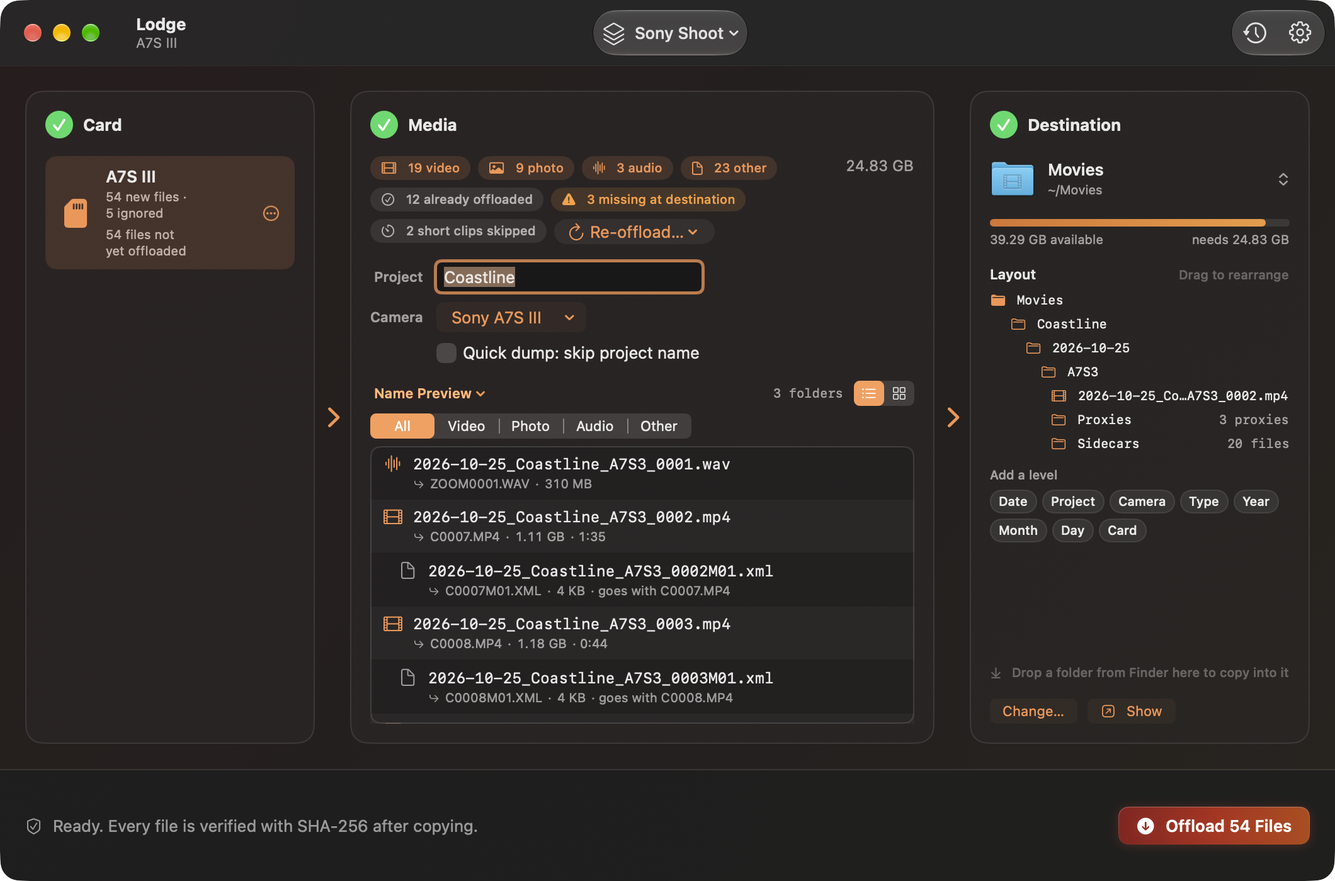
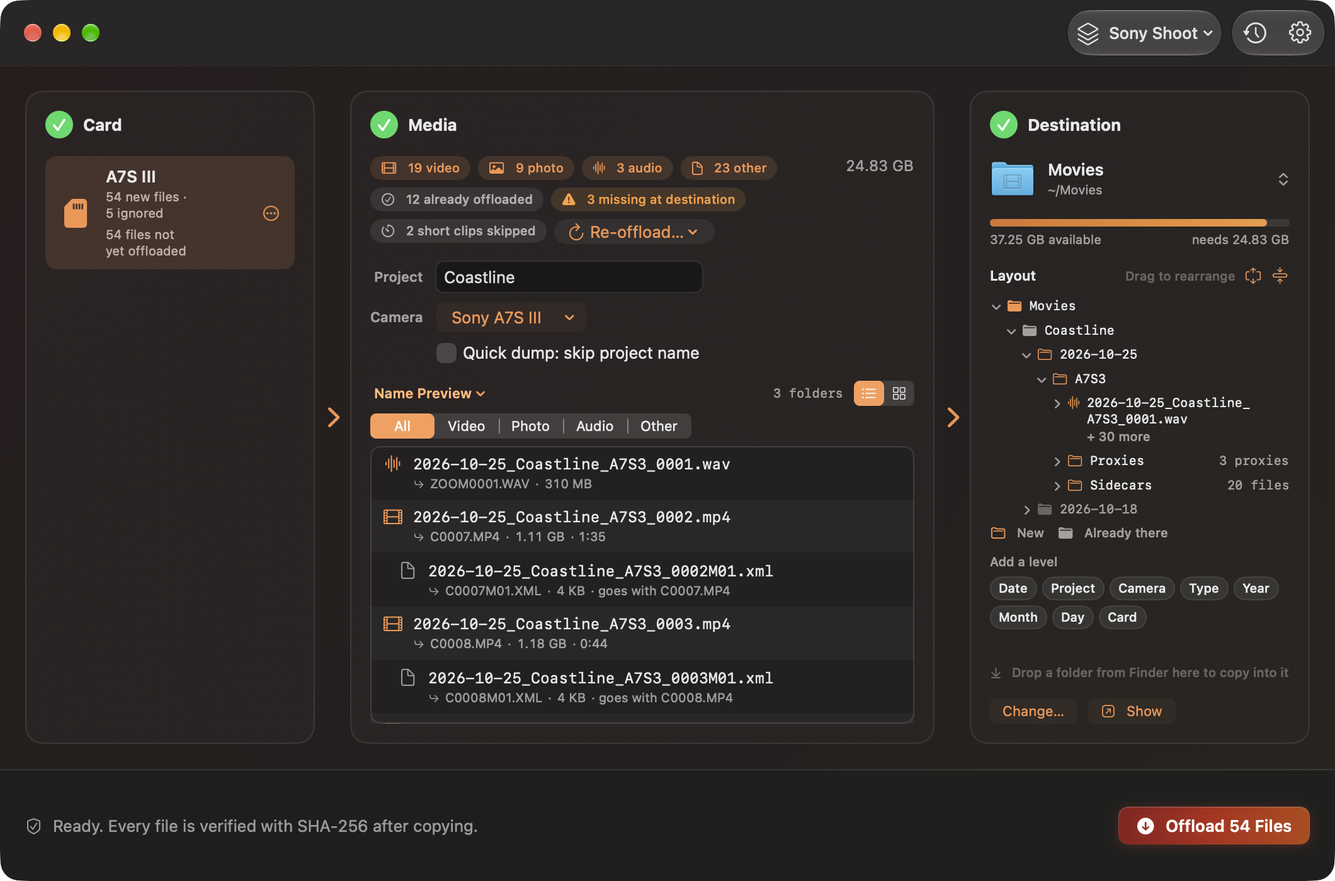
Document sorting, updates, and support for the next release
Copy the retaken screenshots into the site and describe the new folder layout, update checks, and support card as coming after 1.0.0.

diff --git a/docs/index.html b/docs/index.html
@@ -382,8 +382,8 @@
     </div>
 
     <div class="wrap">
-      <img class="shot" src="assets/screenshots/ready-dark.png" width="1440" alt="The Lodge window ready to offload a card: Card, Media, and Destination, with Offload 49 Files along the bottom.">
-      <p class="caption">Default theme, Dark mode. The card line shows how many files are new, and how many were ignored.</p>
+      <img class="shot" src="assets/screenshots/ready-dark.png" width="1440" alt="Lodge in Dark mode, ready to offload. The preset control at the top right reads Sony Shoot, and the window title is hidden. Offload 54 Files sits along the bottom.">
+      <p class="caption">Default theme, Dark mode. The card line shows how many files are new, and how many were ignored. <span class="soon">Coming in the next update</span> This picture’s preset menu is at the top right, and the title is hidden. Lodge 1.0.0 keeps that menu in the center of the toolbar, and the title reads Lodge.</p>
     </div>
 
     <section id="features">
@@ -413,7 +413,7 @@
           </article>
           <article class="card">
             <h3>Short clips, presets, quick dump</h3>
-            <p><strong>Skip videos shorter than</strong> runs from <strong>Off</strong> to <strong>30 s</strong>, and starts at <strong>5 s</strong>. A preset saves a whole setup and shows <strong>Edited</strong> when you change it. <span class="soon">Coming in the next update</span> The preset menu sits at the top right of the window, and the title is hidden. In Lodge 1.0.0 that menu is in the center of the toolbar. Quick dump leaves <code>{project}</code> out so you can just empty the card.</p>
+            <p><strong>Skip videos shorter than</strong> runs from <strong>Off</strong> to <strong>30 s</strong>, and starts at <strong>5 s</strong>. A preset saves a whole setup and shows <strong>Edited</strong> when you change it. <span class="soon">Coming in the next update</span> The preset menu sits at the top right of the window, and the title is hidden. In Lodge 1.0.0 that menu is in the center of the toolbar. Quick dump leaves <code>{project}</code> out so you can just empty the card. The checkbox then reads <strong>Quick dump</strong>, with an ⓘ that says it skips the project name and dumps the footage into a dated folder. In Lodge 1.0.0 the checkbox reads <strong>Quick dump: skip project name</strong>.</p>
           </article>
           <article class="card">
             <h3>Drop a folder, or a level</h3>
@@ -421,7 +421,11 @@
           </article>
           <article class="card">
             <h3>Proxies, sidecars, ignore list</h3>
-            <p>A <code>.lrv</code> file is a proxy, and Lodge does not copy it as video. Settings &gt; Files sends <code>.lrv</code> and <code>.lrf</code> to <strong>Proxies/</strong>, and <code>.thm</code>, <code>.xml</code>, and <code>.srt</code> to <strong>Sidecars/</strong>. They keep the clip’s new name. The ignore list is never copied, and Lodge also skips system junk such as <code>recycler</code> and <code>recycled</code>.</p>
+            <p>A <code>.lrv</code> file is a proxy, and Lodge does not copy it as video. Settings &gt; Files sends <code>.lrv</code> and <code>.lrf</code> to <strong>Proxies/</strong>, and <code>.thm</code>, <code>.xml</code>, and <code>.srt</code> to <strong>Sidecars/</strong>. They keep the clip’s new name. The ignore list is never copied, and Lodge also skips system junk such as <code>recycler</code> and <code>recycled</code>. In Lodge 1.0.0 the other files land in the folder the template makes, and audio recorded with a clip stays next to that clip. <span class="soon">Coming in the next update</span> Each extension gets its own folder, such as <strong>MP4/</strong>, <strong>ARW/</strong>, and <strong>WAV/</strong>. <code>.JPG</code> and <code>.JPEG</code> share <strong>JPG/</strong>. Proxies and sidecars stay separate.</p>
+          </article>
+          <article class="card">
+            <h3>Updates</h3>
+            <p>Lodge 1.0.0 does not check for a new version. Download the next one from Gumroad. <span class="soon">Coming in the next update</span> <strong>Lodge &gt; Check for Updates…</strong> looks now. In Settings &gt; General, under <strong>Updates</strong>, <strong>Automatically check for updates</strong> is on, and <strong>Automatically download and install updates</strong> is off. Lodge checks once a day.</p>
           </article>
           <article class="card">
             <h3>Motion, quietly</h3>
@@ -453,7 +457,7 @@
 
     <section id="themes">
       <div class="wrap pair themes">
-        <img src="assets/screenshots/ready-ember-dark.png" width="1440" alt="Lodge in the Ember theme, Dark mode, ready to offload.">
+        <img src="assets/screenshots/ready-ember-dark.png" width="1440" alt="Lodge in the Ember theme, Dark mode, ready to offload. The preset control at the top right, and the hidden title, are the next update.">
         <div>
           <h2>Default is neutral black</h2>
           <p class="section-intro">Lodge opens in Dark mode. Default is a neutral black and white window, with no colour wash. Buttons, switches, sliders, selection, progress, and badges use the system accent: system blue, unless you picked another accent in System Settings.</p>
@@ -492,7 +496,7 @@
           </article>
         </div>
         <p class="note">The first time Lodge reads a card, allow access to files on a removable volume. Building from source is in the <a href="https://github.com/bashcrandicoot/Lodge/blob/main/CONTRIBUTING.md">contribution guide</a>. The <a href="https://github.com/bashcrandicoot/Lodge/blob/main/docs/user-guide.md">user guide</a>, <a href="https://github.com/bashcrandicoot/Lodge/blob/main/docs/faq.md">FAQ</a>, and <a href="https://github.com/bashcrandicoot/Lodge/blob/main/docs/changelog.md">changelog</a> live in the repository.</p>
-        <p class="note"><span class="soon">Coming in the next update</span> Help adds <strong>Contact Support…</strong> and <strong>Support Lodge…</strong>. After a few offloads, a quiet tip appears once. You can dismiss it.</p>
+        <p class="note"><span class="soon">Coming in the next update</span> <strong>Help &gt; Contact Support…</strong> writes to bashframes@gmail.com, and <strong>Support Lodge…</strong> opens the same page as the download. <strong>About Lodge</strong> credits BashFrames. After five verified offloads, and at least three days after you first open that version, a quiet card asks once when Lodge is idle. <strong>Maybe Later</strong> asks one more time. <strong>Don’t Ask Again</strong> stops it.</p>
       </div>
     </section>
   </main>

diff --git a/docs/user-guide.md b/docs/user-guide.md
@@ -4,9 +4,11 @@ Home base for your media. Lodge is a universal app for Apple silicon and Intel M
 
 The main window reads left to right: **Card**, **Media**, **Destination**, with the offload bar along the bottom. Closing the window quits Lodge.
 
-**Coming in the next update.** The preset menu sits at the top right of the window, just left of **Recent Offloads** and **Settings**, and the window title is hidden. In Lodge 1.0.0 the preset menu is in the center of the toolbar, and the title reads Lodge. The Help menu also gains **Contact Support…** and **Support Lodge…**. After a few offloads, Lodge shows a quiet tip once. You can dismiss it.
+**Coming in the next update.** The preset menu sits at the top right of the window, just left of **Recent Offloads** and **Settings**, and the window title is hidden. In Lodge 1.0.0 the preset menu is in the center of the toolbar, and the title reads Lodge. Updates, a folder for each file extension, the shorter Quick dump label, and the support items are in their own sections below.
 
-![Lodge ready to offload, Default theme, Dark mode](assets/screenshots/ready-dark.png)
+![Lodge in Dark mode, ready to offload. The preset control at the top right reads Sony Shoot, and the window title is hidden. Offload 54 Files sits along the bottom.](assets/screenshots/ready-dark.png)
+
+The pictures in this guide are the next update’s window. The preset control is at the top right and the title is hidden. The copying, grid, and finished pictures include a wagon scene on the offload bar. Lodge 1.0.0 keeps the preset menu in the center of the toolbar, the title reads Lodge, and the offload bar has no wagon. The pictures still use the 1.0.0 Quick dump label, **Quick dump: skip project name**, and they still put files in the template’s folders, with **Proxies** and **Sidecars**, rather than a folder per extension.
 
 ## Cards
 
@@ -30,11 +32,11 @@ The size of the new files counts up when the card is scanned.
 
 **Project** and **Camera** appear when the template uses them. Only those fields are required. “Beach Shoot” becomes `BeachShoot`: letters, digits, and hyphens, each word capitalized, at most 60 characters. Up to six recent projects stay in the menu, and **Clear Recent Projects** empties that list. The camera menu remembers which camera you used with this card. **Edit Cameras…** opens Settings > Cameras.
 
-**Quick dump: skip project name** sits under the camera field. See [Quick dump](#quick-dump).
+**Quick dump: skip project name** sits under the camera field. See [Quick dump](#quick-dump). **Coming in the next update.** That checkbox reads **Quick dump**, with an ⓘ beside it.
 
 The list previews the finished name of every file before anything is copied. The filter is **All**, **Video**, **Photo**, **Audio**, and **Other**. Sidecars are shown with their clip. The switch above the list (list or grid) is remembered. **Settings > Appearance > Show thumbnails in the list** adds a small thumbnail to each row.
 
-![Thumbnail grid](assets/screenshots/grid-dark.png)
+![The Media panel as a thumbnail grid while a copy is running. The offload bar shows the file in progress and a wagon scene. The preset control at the top right, and the hidden title, are the next update.](assets/screenshots/grid-dark.png)
 
 In the grid, each tile shows a thumbnail, the new name, the length, the type, and a paperclip count for sidecars that travel with it. The file being copied shows a progress ring. A verified file gets a green tick. Files offloaded earlier are dimmed. A missing copy is marked. A skipped short clip is marked, with **Include Anyway** in its menu.
 
@@ -56,13 +58,13 @@ Each file is written as `<name>.lodge-partial`. Lodge reads that file back and h
 
 While it runs you see the current file, how far through the batch you are, the bytes copied, the time left, a **Verifying** state, and **Cancel**. The list follows the file being copied.
 
-![An offload in progress](assets/screenshots/running-dark.png)
+![Lodge copying files. The offload bar shows the file, how far through the batch the copy is, and Cancel, with a wagon scene along the bar. That scene is in the next update.](assets/screenshots/running-dark.png)
 
 Time left appears after a couple of seconds of copying: **Estimating time…**, **Less than a minute left**, **About 3 min left**, and so on.
 
 When it finishes, the summary reads like **57 copied · 0 skipped · 0 failed**. The copied count counts up. On a clean finish the checkmark draws itself, and Lodge plays the Glass sound if **Play a sound when an offload finishes** is on (it is, by default). Then: **Show in Finder**, **Eject Card**, **Done**, and **Format Card…** when the card is ready.
 
-![A finished offload, with the card ready to format](assets/screenshots/finished-dark.png)
+![A finished offload. The bar reads Offload Complete and offers Show in Finder, Format Card…, Eject Card, and Done, with a wagon scene parked along the bar. The wagon is in the next update.](assets/screenshots/finished-dark.png)
 
 **Eject card after offload** is off by default. It ejects only when every file copied and verified. The same switch ejects the card after a successful format.
 
@@ -174,7 +176,9 @@ The same folder structure is the **Layout** tree in Destination once a card is s
 
 In the Layout tree, a level that quick dump removes is struck through and tagged **Quick dump**.
 
-![Quick dump on, so the project name is left out](assets/screenshots/ready-quickdump-dark.png)
+**Coming in the next update.** The checkbox reads **Quick dump**, with an ⓘ beside it. Hover the ⓘ for a moment, or click it, and a small note says: Skips the project name and dumps all the footage straight into a dated folder. The same sentence is the tooltip. The picture below still shows the 1.0.0 label.
+
+![Quick dump on, so the project name is left out. The checkbox still reads Quick dump: skip project name, which is the Lodge 1.0.0 label. The preset control at the top right, and the hidden title, are the next update.](assets/screenshots/ready-quickdump-dark.png)
 
 ## Short clips
 
@@ -196,7 +200,7 @@ A preset saves the destination, the folder and file templates, the camera, the s
 
 **Save Current Setup as Preset…** saves what the window is using now. Change any of that afterwards and the menu shows **Edited**, and offers **Update “Name”** for the preset in use. **Manage Presets…** opens Settings > Presets. With no preset selected the menu says **No Preset**.
 
-![The preset menu, with Edited showing](assets/screenshots/ready-presets-dark.png)
+![The preset control at the top right reads Sony Shoot. The window title is hidden. This chrome is the next update. Lodge 1.0.0 puts that menu in the center of the toolbar, and the title reads Lodge. The empty-window picture later on is the one whose preset control reads Sony Shoot Edited.](assets/screenshots/ready-presets-dark.png)
 
 In Settings > Presets you can add, rename, duplicate, edit, and remove presets. The one in use is marked **In use**, or **In use · edited** when the window has drifted from it. Editing the preset that is in use, while it still matches, updates the window too.
 
@@ -235,6 +239,7 @@ In Lodge 1.0.0 the header says **Drag to rearrange** while nothing is copying. D
 - When a folder holds more than one file, they start as one line: the first name, with **+ N more** under it. Open that line to see each file. Lodge 1.0.0 shows one example file name on its own line.
 - Drop a level or a token on the left or right side of a folder’s name to put the tokens side by side in that level, such as `{project}_{date}`. Drag a piece of a combined name between folders to give it its own level again, or along the name to reorder it. Right-click a piece to remove it.
 - Hover a combined level for the separator menu: **Underscore**, **Hyphen**, **Space**, or **None**.
+- The tree lists a folder for each extension, such as `MP4/`, `ARW/`, and `WAV/`, in Finder order, then **Proxies** and **Sidecars**. Lodge 1.0.0 puts the files in the folder the template makes. See [Folders for each extension](#folders-for-each-extension).
 
 A combined level is ordinary template text, so a saved template or preset keeps it. A change that would make the template invalid is refused, with a beep. Quick dump levels that are left out stay visible, struck through, so you can see what the template still contains.
 
@@ -246,7 +251,7 @@ Settings > Files decides which extensions are proxies, which are sidecars, and w
 
 **Proxies** (default `lrv` and `lrf`) are low-resolution copies, such as a GoPro `.LRV` or a DJI `.LRF`. They go in a `Proxies` folder inside the shoot folder and take their clip’s new name. They are never treated as the footage, and they are not skipped as short clips on their own. They follow the clip.
 
-**Sidecars** (default `thm`, `xml`, and `srt`) are thumbnails, metadata, and telemetry. They go in a `Sidecars` folder and keep the clip’s new name. Sony’s `C0001M01.XML` keeps the `M01`. A GoPro proxy named `GL010001.LRV` follows the clip `GX010001.MP4`. An audio file recorded next to a clip, such as `C0001.WAV`, stays beside the clip rather than in Sidecars, and shares its new name. Sidecars do not use up a sequence number.
+**Sidecars** (default `thm`, `xml`, and `srt`) are thumbnails, metadata, and telemetry. They go in a `Sidecars` folder and keep the clip’s new name. Sony’s `C0001M01.XML` keeps the `M01`. A GoPro proxy named `GL010001.LRV` follows the clip `GX010001.MP4`. In Lodge 1.0.0, an audio file recorded next to a clip, such as `C0001.WAV`, stays beside the clip rather than in Sidecars, and shares its new name. Sidecars do not use up a sequence number. **Coming in the next update**, that WAV goes in `WAV/` instead. See [Folders for each extension](#folders-for-each-extension).
 
 A proxy or sidecar whose clip is not on the card keeps its own name.
 
@@ -257,6 +262,41 @@ The card line counts these. They do not block **Ready to format**. Formatting st
 **Restore Defaults** puts the three lists back.
 
 Empty files are copied when they are not hidden and not ignored.
+
+## Folders for each extension
+
+**Coming in the next update.** Inside the folder the template makes, every file goes in a folder named for its extension, in capitals.
+
+`.mp4` and `.MP4` share `MP4/`. `.JPG`, `.JPEG`, and `.JPE` share `JPG/`. `.TIF` and `.TIFF` share `TIF/`. An extension Lodge does not know still gets a folder: `.xyz` goes in `XYZ/`. A file with no extension, such as `README`, stays in the template folder.
+
+Proxies stay in `Proxies/` and sidecars stay in `Sidecars/`. They do not get `LRV/` or `XML/`. Take an extension off the proxy or sidecar list and that file is sorted by its extension instead, still named after its clip.
+
+Audio recorded with a clip, such as `C0001.WAV`, is not a sidecar. It goes in `WAV/` and keeps the clip’s new name, including the same sequence number. A JPEG beside a RAW file, such as `DSC00001.JPG` next to `DSC00001.ARW`, is its own photo. It goes in `JPG/` with the next number, not the RAW file’s number. A proxy or sidecar whose clip is on the card keeps the clip’s new name. A lone one, such as `MEDIAPRO.XML`, keeps its own name and does not take a sequence number.
+
+One sequence runs across the whole shoot folder: the template folder and every format folder under it. Numbering continues after the highest number already there, including files an older offload left directly in the shoot folder. In the Layout tree the format folders are listed like the Finder, and **Proxies** and **Sidecars** come after them. If the template uses `{type}`, you still get `Video`, `Photo`, `Audio`, or `Other`, and the extension folder sits inside that, such as `Video/MP4`.
+
+In Lodge 1.0.0 the files land in the folder the template makes. Proxies and sidecars already have their own folders. Audio recorded with a clip stays next to that clip.
+
+## Updates
+
+**Coming in the next update.** Choose **Lodge > Check for Updates…** to look now. The item is dimmed while a check is already running.
+
+Settings > General has an **Updates** section:
+
+- **Automatically check for updates** is on. Lodge checks for a new version once a day.
+- **Automatically download and install updates** is off. It is unavailable while automatic checks are off.
+
+The note under the switches says you can also choose **Lodge > Check for Updates…** any time.
+
+Lodge 1.0.0 has none of this. It never checks. Download the next version from Gumroad. That version is the first one that can look for a newer one. Copying itself still does not upload anything.
+
+## Support
+
+Write to [bashframes@gmail.com](mailto:bashframes@gmail.com). If Lodge has been useful, [Support Lodge](https://bashframe.gumroad.com/l/lodge). Pay what you want.
+
+**Coming in the next update.** **Help > Contact Support…** opens an email to that address. The subject is Lodge Support. Under a blank line for your message, Lodge adds its version, its build number, and the macOS version. **Lodge > Support Lodge…** and **Help > Support Lodge…** open the Gumroad page. **Lodge > About Lodge** says Made by BashFrames, with a link to the same email. The bottom of Settings > General reads Made by BashFrames, then **Support**, then **Support Lodge ♥**.
+
+After five offloads where every file was copied and verified, and at least three days after you first opened this version of Lodge, a small card appears. It only appears when Lodge is idle, at launch or after **Done**, never during a copy. The card is titled **Support Lodge**. It says Lodge is made by one person at BashFrames, and that you can chip in on Gumroad. **Maybe Later** asks once more, 30 days later. **Support Lodge** opens the page and does not ask again. **Don’t Ask Again** stops it. If a copy starts while the card is up, the card goes away. Lodge asks at most twice.
 
 ## Ready to format
 
@@ -288,9 +328,9 @@ Lodge opens in **Dark** mode with the **Default** theme. Default is neutral blac
 
 ![Settings > Appearance](assets/screenshots/settings-appearance.png)
 
-![The same card in Light mode](assets/screenshots/ready-light.png)
+![The same card in Light mode. The preset control at the top right, and the hidden title, are the next update. Lodge 1.0.0 keeps the preset menu in the center and the title reads Lodge.](assets/screenshots/ready-light.png)
 
-![The Ember theme in Dark mode](assets/screenshots/ready-ember-dark.png)
+![The Ember theme in Dark mode, ready to offload. The preset control at the top right, and the hidden title, are the next update.](assets/screenshots/ready-ember-dark.png)
 
 With **Increase Contrast** or **Reduce Transparency** on, every theme uses solid colours instead of gradients. The Appearance footer says so while either setting is on.
 
@@ -340,10 +380,10 @@ The type comes from the extension, in either case. Settings > General can turn e
 | Presets | `~/Library/Application Support/Lodge/presets.json` |
 | Templates, theme, appearance, file rules, short clips, and the other switches | Lodge’s preferences |
 
-Lodge does not connect to the network. Copying, the ledger, and settings stay on your Mac.
+Lodge 1.0.0 does not connect to the network. Copying, the ledger, and settings stay on your Mac. **Coming in the next update**, the daily update check reads Lodge’s update feed. The offload itself still does not upload anything.
 
 ## With no card
 
 Before a card is inserted the Card column is empty, Media explains that it is waiting, and Offload says **Insert a card to begin**.
 
-![Lodge with no card inserted](assets/screenshots/empty-dark.png)
+![Lodge with no card inserted. The preset control at the top right reads Sony Shoot Edited, and the window title is hidden. That chrome is the next update. Lodge 1.0.0 keeps the preset menu in the center of the toolbar, and the title reads Lodge.](assets/screenshots/empty-dark.png)

diff --git a/README.md b/README.md
@@ -24,12 +24,16 @@
 </p>
 
 <p align="center">
-  <img alt="Lodge in Dark mode, ready to offload a memory card. Card, Media, and Destination sit left to right, and the Offload button runs along the bottom." src="docs/assets/screenshots/ready-dark.png" width="880">
+  <img alt="Lodge in Dark mode, ready to offload. The preset control at the top right reads Sony Shoot, and the window title is hidden. Card, Media, and Destination sit left to right, with Offload 54 Files along the bottom." src="docs/assets/screenshots/ready-dark.png" width="880">
+</p>
+
+<p align="center">
+  This picture is the next update. Lodge 1.0.0 keeps the preset menu in the center of the toolbar, and the title reads Lodge.
 </p>
 
 ## Key features
 
-Lodge 1.0.0 is the download below. **Coming in the next update** marks anything newer than that download. Where 1.0.0 works differently, the note says how. That update also adds **Help > Contact Support…** and **Support Lodge…**, and a quiet tip after a few offloads that you can dismiss.
+Lodge 1.0.0 is the download below. **Coming in the next update** marks anything newer than that download. Where 1.0.0 works differently, the note says how.
 
 - **Verified copies.** Each file is written as `<name>.lodge-partial`, read back, and hashed. When the SHA-256 matches the card, Lodge renames it to the final name. A mismatch deletes the partial file and reports a failure. The card is only read.
 - **Names from a template.** The default is `{date}/{project}` and `{date}_{project}_{seq}`. In Settings > Naming the menu is **Examples**: ready-made folder and file pairs, plus token buttons and a live example. `{project}` is the shoot or job name.
@@ -37,8 +41,10 @@ Lodge 1.0.0 is the download below. **Coming in the next update** marks anything 
 - **Ready to format.** When every file has a verified copy that is still at the destination, the card shows a green **Ready to format** badge, and **Format Card…** is available. Cancel is the default. Lodge keeps exFAT, FAT32, or FAT16, and the card’s name.
 - **Short clips.** **Skip videos shorter than** runs from **Off** to **30 s**. The default is **5 s**. A stepper beside the slider goes up to 60 seconds. Skipped clips stay on the card with their sidecars until you choose **Include Anyway** or **Include All**.
 - **Presets.** A preset saves a whole setup: destination, templates, camera, short clips, quick dump, and file rules. After you change something, the menu says **Edited** and offers to update that preset. Manage them in Settings > Presets. **Coming in the next update.** The preset menu sits at the top right of the window, just left of **Recent Offloads** and **Settings**, and the window title is hidden. In Lodge 1.0.0 the preset menu is in the center of the toolbar, and the title reads Lodge.
-- **Quick dump.** **Quick dump: skip project name** takes `{project}` out of the templates, so there is nothing to type. Numbering carries on from the files already in the folder.
+- **Quick dump.** **Quick dump: skip project name** takes `{project}` out of the templates, so there is nothing to type. Numbering carries on from the files already in the folder. **Coming in the next update.** The checkbox reads **Quick dump**, with an ⓘ beside it. Hover or click the ⓘ and it says: Skips the project name and dumps all the footage straight into a dated folder.
 - **Proxies and sidecars.** A `.lrv` file is a low-resolution proxy. Lodge does not copy it as video. With the default file rules, `lrv` and `lrf` go in a **Proxies** folder, and `thm`, `xml`, and `srt` go in a **Sidecars** folder. Both keep the clip’s new name. Lodge never copies the ignore list, or system junk such as `recycler` and `recycled`.
+- **A folder for each extension.** **Coming in the next update.** Inside the folder the template makes, each file goes in a folder named for its extension, in capitals: `MP4/`, `ARW/`, `WAV/`, and the rest. `.mp4` and `.MP4` share `MP4/`. `.JPG`, `.JPEG`, and `.JPE` share `JPG/`. `.TIF` and `.TIFF` share `TIF/`. An extension Lodge does not know still gets a folder (`.xyz` goes in `XYZ/`). A file with no extension stays in the template folder. Proxies stay in **Proxies/** and sidecars stay in **Sidecars/**, not in `LRV/` or `XML/`. Audio recorded with a clip, such as `C0001.WAV`, goes in `WAV/` and keeps that clip’s name and number. A JPEG beside a RAW file is its own photo, in `JPG/`, with the next number. One sequence runs across the whole shoot folder, including every format folder, and continues after files already there. If the template uses `{type}`, the extension folder sits inside `Video/`, `Photo/`, `Audio/`, or `Other/`. In Lodge 1.0.0 the files land in the folder the template makes. Proxies and sidecars already have their own folders, and audio recorded with a clip stays next to that clip.
+- **Updates.** **Coming in the next update.** **Lodge > Check for Updates…** looks for a new version. The item is dimmed while a check is already running. In Settings > General, under **Updates**, **Automatically check for updates** is on, and **Automatically download and install updates** is off. The second switch is unavailable while automatic checks are off. Lodge checks once a day. Lodge 1.0.0 does not check. Download the next version from Gumroad. That version is the first one that can look for a newer one.
 - **Favorites.** On launch, Lodge selects the default favorite when that drive is connected, then the last-used favorite if that drive is connected, then any other connected favorite.
 - **Themes.** Lodge opens in Dark mode with the **Default** theme: a neutral black window and system-blue controls. **Aurora**, **Ocean**, **Twilight**, **Ember**, and **Forest** are optional colour themes in Settings > Appearance.
 - **Motion.** A finished offload draws its checkmark and counts the copied files up. Inserting a card glows the card panel. Rows and thumbnail tiles lift under the pointer. The **Ready to format** badge glows when it appears. Turn on Reduce Motion in System Settings and Lodge keeps still.
@@ -49,13 +55,15 @@ Once a card is scanned, **Layout** in Destination shows the folders the offload 
 
 In Lodge 1.0.0 you drag a level to rearrange it, or drag a token from **Add a level** onto the tree. Click a token to add it at the end. The header says **Drag to rearrange**. Hover a level to remove it. The tree shows one example file name, and extra folders appear as a line such as **+ 2 more folders**. A level that quick dump removes is struck through and tagged **Quick dump**.
 
-**Coming in the next update.** **Expand All** and **Collapse All** open or close the tree. Option-click a triangle does the same for everything inside that folder. Drop a level or a token on the left or right side of a folder’s name to put the tokens side by side, such as `{project}_{date}`. The separator is **Underscore**, **Hyphen**, **Space**, or **None**. When a folder holds more than one file, they start as one line: the first name, with **+ N more** under it.
+**Coming in the next update.** **Expand All** and **Collapse All** open or close the tree. Option-click a triangle does the same for everything inside that folder. Drop a level or a token on the left or right side of a folder’s name to put the tokens side by side, such as `{project}_{date}`. The separator is **Underscore**, **Hyphen**, **Space**, or **None**. When a folder holds more than one file, they start as one line: the first name, with **+ N more** under it. The tree also lists a folder for each extension, such as `MP4/`, `ARW/`, and `WAV/`, with **Proxies** and **Sidecars** after those. Lodge 1.0.0 puts the files in the folder the template makes, and only proxies and sidecars get a folder of their own.
 
 The card’s line reads **54 new files · 5 ignored** before and during an offload, and **57 copied · 5 ignored** when that offload has finished. Ignored items are system files and anything on your ignore list. They are counted, and they are not copied.
 
 | Ready | Copying | Finished |
 | --- | --- | --- |
-| ![The Lodge window in Dark mode before an offload, with a card selected, file names previewed in Media, a destination folder chosen, and Offload ready along the bottom.](docs/assets/screenshots/ready-dark.png) | ![Lodge copying files from a card. The offload bar shows the file in progress, how far through the batch the copy is, and Cancel.](docs/assets/screenshots/running-dark.png) | ![A finished Lodge offload. The card shows the green Ready to format badge, and the bar summarizes how many files were copied.](docs/assets/screenshots/finished-dark.png) |
+| ![Lodge in Dark mode before an offload. The preset control at the top right reads Sony Shoot, and the window title is hidden. Media previews names, Destination shows the folder, and Offload 54 Files sits along the bottom.](docs/assets/screenshots/ready-dark.png) | ![Lodge copying files. The offload bar shows the file in progress, how far through the batch the copy is, and Cancel, with a wagon scene along the bar.](docs/assets/screenshots/running-dark.png) | ![A finished Lodge offload. The bar reads Offload Complete, offers Show in Finder, Format Card…, Eject Card, and Done, and a wagon scene is parked along the bar.](docs/assets/screenshots/finished-dark.png) |
+
+These pictures are the next update’s window. The preset menu is at the top right, the title is hidden, and the copying and finished pictures include the wagon on the offload bar. They still put files in the template’s folders, with **Proxies** and **Sidecars**, rather than a folder per extension. Lodge 1.0.0 keeps the preset menu in the center of the toolbar, the title reads Lodge, and the offload bar has no wagon.
 
 ## Download Lodge
 
@@ -96,6 +104,10 @@ The longer path, including what to do if Offload is waiting, is in [Getting star
 ## Support
 
 Lodge is made by BashFrames. For help, write to [bashframes@gmail.com](mailto:bashframes@gmail.com).
+
+**Coming in the next update.** **Help > Contact Support…** opens an email to that address, with the subject Lodge Support and the Lodge and macOS versions under your message. **Lodge > Support Lodge…** and **Help > Support Lodge…** open the same page as the link below. **Lodge > About Lodge** says Made by BashFrames, with a link to the same email. Settings > General ends with Made by BashFrames, a **Support** link, and **Support Lodge ♥**.
+
+After five offloads where every file was copied and verified, and at least three days after you first open that version, a small card asks if you want to support Lodge. It appears only when Lodge is idle, never during a copy, and at most twice. **Maybe Later** asks once more, 30 days later. **Support Lodge** and **Don’t Ask Again** stop it.
 
 If Lodge has been useful, [Support Lodge](https://bashframe.gumroad.com/l/lodge). Pay what you want.
 

diff --git a/docs/faq.md b/docs/faq.md
@@ -34,11 +34,13 @@ Lodge formats exFAT, FAT32, and FAT16, and keeps the card’s name. Other format
 
 Once a card is scanned, **Layout** in Destination shows the folders Lodge will make, including **Proxies** and **Sidecars** when those files are in the plan. In Lodge 1.0.0, drag a level to move it, or drag or click a token from **Add a level**. The header says **Drag to rearrange**. One example file name is shown, and extra folders appear as a line such as **+ 2 more folders**. A level quick dump removes stays in the tree, struck through.
 
-**Coming in the next update.** **Expand All** and **Collapse All** open or close the tree, and Option-click a triangle does the same for everything inside that folder. Drop a token on the left or right side of a name to put tokens side by side, such as `{project}_{date}`. The separator can be an underscore, a hyphen, a space, or nothing. A folder’s files can fold into one line, the first name with **+ N more** under it.
+**Coming in the next update.** **Expand All** and **Collapse All** open or close the tree, and Option-click a triangle does the same for everything inside that folder. Drop a token on the left or right side of a name to put tokens side by side, such as `{project}_{date}`. The separator can be an underscore, a hyphen, a space, or nothing. A folder’s files can fold into one line, the first name with **+ N more** under it. The tree also lists a folder for each extension. See [How are files sorted into folders?](#how-are-files-sorted-into-folders)
 
 ## What is quick dump?
 
 **Quick dump: skip project name** takes `{project}` out of the templates so there is nothing to type. `{date}/{project}` and `{date}_{project}_{seq}` become `{date}` and `{date}_{seq}`. Numbering carries on from the folder.
+
+**Coming in the next update.** The checkbox reads **Quick dump**, with an ⓘ beside it. The note says: Skips the project name and dumps all the footage straight into a dated folder.
 
 ## What does the short-clip slider do?
 
@@ -62,11 +64,27 @@ The first time Lodge reads a card, also allow access to files on a removable vol
 
 Write to [bashframes@gmail.com](mailto:bashframes@gmail.com). If Lodge has been useful, [Support Lodge](https://bashframe.gumroad.com/l/lodge). Pay what you want.
 
-**Coming in the next update.** **Help > Contact Support…** and **Support Lodge…** are in the Help menu. After a few offloads, Lodge shows a quiet tip once. You can dismiss it.
+**Coming in the next update.** **Help > Contact Support…** opens an email to that address, subject Lodge Support, with the Lodge and macOS versions under your message. **Help > Support Lodge…** and **Lodge > Support Lodge…** open the same page. **Lodge > About Lodge** says Made by BashFrames, with a link to the same email.
+
+After five offloads where every file was copied and verified, and at least three days after you first open that version, a small **Support Lodge** card appears when Lodge is idle. It never appears during a copy. **Maybe Later** asks once more, 30 days later. **Support Lodge** and **Don’t Ask Again** stop it. Lodge asks at most twice.
+
+## How do I update Lodge?
+
+Lodge 1.0.0 does not check for updates. [Download Lodge from Gumroad](https://bashframe.gumroad.com/l/lodge) when you want a newer copy.
+
+**Coming in the next update.** **Lodge > Check for Updates…** looks now. The item is dimmed while a check is already running. In Settings > General, under **Updates**, **Automatically check for updates** is on, and **Automatically download and install updates** is off. The second switch is unavailable while automatic checks are off. Lodge checks once a day. The 1.0.0 download cannot do this. Download the next version from Gumroad once. That version is the first one that can look for a newer one.
+
+## How are files sorted into folders?
+
+In Lodge 1.0.0, files land in the folder the template makes. With the default file rules, `lrv` and `lrf` go in **Proxies/**, and `thm`, `xml`, and `srt` go in **Sidecars/**, named after their clip. Audio recorded beside a clip, such as `C0001.WAV`, stays next to that clip and shares its new name.
+
+**Coming in the next update.** Each file also goes in a folder named for its extension, in capitals, inside the template’s folder: `MP4/`, `ARW/`, `WAV/`, and so on. `.mp4` and `.MP4` share `MP4/`. `.JPG`, `.JPEG`, and `.JPE` share `JPG/`. `.TIF` and `.TIFF` share `TIF/`. An unknown extension still gets a folder (`.xyz` goes in `XYZ/`). A file with no extension stays in the template folder. Proxies stay in **Proxies/** and sidecars stay in **Sidecars/**. Audio recorded with a clip goes in `WAV/` and keeps the clip’s name and number. A JPEG beside a RAW file is its own photo, in `JPG/`, with the next number. One sequence runs across the whole shoot folder, including every format folder, and continues after files already there. `{type}` still makes `Video/`, `Photo/`, `Audio/`, or `Other/`, and the extension folder sits inside that.
 
 ## Does Lodge need a network?
 
-No. There is no account and no upload. The ledger and your settings stay in your Library folder.
+Lodge 1.0.0 does not. There is no account and no upload. The ledger and your settings stay in your Library folder.
+
+**Coming in the next update**, the daily update check reads Lodge’s update feed. Copying still does not upload anything.
 
 ## Where do my settings live?
 
@@ -79,6 +97,8 @@ Yes. Settings > Appearance. Lodge starts in Dark mode with **Default**: a neutra
 ## What if two files would get the same name?
 
 Lodge does not overwrite. With `{seq}` in the template, numbering continues after the highest number already in the folder. Without `{seq}` or `{original}`, a repeated name gets `_2`, `_3`, and so on.
+
+**Coming in the next update**, that number runs across the whole shoot folder and every format folder under it, and it also continues after files an older offload left directly in the shoot folder.
 
 ## I turned a file type off. Will Format still wait for it?
 

diff --git a/docs/changelog.md b/docs/changelog.md
@@ -8,7 +8,11 @@
 - A folder Lodge will create is marked **New**. One already there is marked **Already there**. A folder’s files can fold into one line, the first name with **+ N more** under it. Lodge 1.0.0 shows one example file name, and notes extra folders as a line such as **+ 2 more folders**.
 - Tokens can sit side by side in one folder level, such as `{project}_{date}`. Drop a level or a token on the left or right side of a name. Drag a piece back out between folders to give it its own level. The separator is **Underscore**, **Hyphen**, **Space**, or **None**.
 - The preset menu sits at the top right of the window, just left of **Recent Offloads** and **Settings**, and the window title is hidden. In Lodge 1.0.0 the preset menu is in the center of the toolbar, and the title reads Lodge.
-- **Help > Contact Support…** and **Support Lodge…** join the Help menu. After a few offloads, Lodge shows a quiet tip once. You can dismiss it.
+- **Help > Contact Support…** opens an email to bashframes@gmail.com, subject Lodge Support, with the Lodge and macOS versions under the message. **Lodge > Support Lodge…** and **Help > Support Lodge…** open the Gumroad page. **Lodge > About Lodge** says Made by BashFrames, with a link to that email. Settings > General ends with the same credit, a **Support** link, and **Support Lodge**.
+- After five offloads where every file was copied and verified, and at least three days after that version first opens, a **Support Lodge** card appears when Lodge is idle. It never appears during a copy. **Maybe Later** asks once more, 30 days later. **Support Lodge** and **Don’t Ask Again** stop it. Lodge asks at most twice.
+- The Quick dump checkbox reads **Quick dump**, with an ⓘ beside it. The note says: Skips the project name and dumps all the footage straight into a dated folder. In Lodge 1.0.0 the checkbox reads **Quick dump: skip project name**.
+- Each file goes in a folder named for its extension, in capitals, inside the folder the template makes: `MP4/`, `ARW/`, `WAV/`, and the rest. `.mp4` and `.MP4` share a folder. `.JPG`, `.JPEG`, and `.JPE` share `JPG/`. `.TIF` and `.TIFF` share `TIF/`. An unknown extension still gets a folder. A file with no extension stays in the template folder. Proxies stay in **Proxies/** and sidecars stay in **Sidecars/**. Audio recorded with a clip goes in `WAV/` and keeps the clip’s name and number. A JPEG beside a RAW file is its own photo, in `JPG/`, with the next number. One sequence runs across the shoot folder and every format folder, and continues after files already there, including an older offload that put files directly in the shoot folder. `{type}` still adds `Video/`, `Photo/`, `Audio/`, or `Other/`, with the extension folder inside it. In Lodge 1.0.0 the files land in the folder the template makes, and audio recorded with a clip stays next to that clip.
+- **Lodge > Check for Updates…** looks for a new version. The item is dimmed while a check is already running. Settings > General has an **Updates** section: **Automatically check for updates** (on) and **Automatically download and install updates** (off, and unavailable while checks are off). Lodge checks once a day. Lodge 1.0.0 does not check. Download the next version from Gumroad. That version is the first one that can look for a newer one.
 
 ## 1.0.0
 

diff --git a/Design/README.md b/Design/README.md
@@ -6,7 +6,9 @@ Artwork and screenshots for people working on Lodge. The public README and the w
 
 | Path | What it is |
 | --- | --- |
-| `lodge-cabin/` | The Lodge Cabin icon set, one PNG per slot, plus `Contents.json` and `icon_1024.png`. Also the 2400-pixel header masters `lodge-header-dark.png` and `lodge-header-light.png`. |
+| `lodge-cabin-night/` | The night Lodge Cabin icon set the app uses now: one PNG per slot, `Contents.json`, `icon_1024.png`, and the masters `lodge-cabin.svg` and `lodge-cabin-small.svg`. |
+| `lodge-cabin-sunset/` | The previous sunset Lodge Cabin set, including the 2400-pixel header masters `lodge-header-dark.png` and `lodge-header-light.png`. |
+| `support-graphic/` | Art for the Support Lodge card (`SupportHeader` in the asset catalog). |
 | `icon-1024.png` | Master app icon, 1024×1024. |
 | `screenshots/` | Screenshots taken in demo mode. The copies used on the site and in the README live in `docs/assets/screenshots/`. |
 | `dusk-cabin-v3/` | The previous Dusk Cabin (v3) icon set, kept for reference. |
@@ -18,16 +20,16 @@ The icon on the website is a separate copy, `docs/assets/app-icon/`. The icon th
 
 ## Updating the icon
 
-The in-app icon is Lodge Cabin: a log cabin and a winding path on a sunset gradient. The set in `lodge-cabin/` is the source.
+The in-app icon is the night Lodge Cabin: a snow-roofed cabin under a starry sky. The set in `lodge-cabin-night/` is the source. The sunset set is archived in `lodge-cabin-sunset/`.
 
 Each size is drawn for that size. The 16×16, 16×16@2x, and 32×32 versions come from a simplified small master so they stay readable in the menu bar and in Finder lists. Generate a real set. Scaling one PNG with `sips` softens those small sizes.
 
-1. Put the new set in `lodge-cabin/` with these names: `icon_16x16.png`, `icon_16x16@2x.png`, `icon_32x32.png`, `icon_32x32@2x.png`, `icon_128x128.png`, `icon_128x128@2x.png`, `icon_256x256.png`, `icon_256x256@2x.png`, `icon_512x512.png`, `icon_512x512@2x.png`, plus `icon_1024.png`.
+1. Put the new set in `lodge-cabin-night/` with these names: `icon_16x16.png`, `icon_16x16@2x.png`, `icon_32x32.png`, `icon_32x32@2x.png`, `icon_128x128.png`, `icon_128x128@2x.png`, `icon_256x256.png`, `icon_256x256@2x.png`, `icon_512x512.png`, `icon_512x512@2x.png`, plus `icon_1024.png`.
 2. Copy them into the asset catalog and refresh the master:
 
 ```sh
-cp Design/lodge-cabin/icon_*x*.png Lodge/Assets.xcassets/AppIcon.appiconset/
-cp Design/lodge-cabin/icon_1024.png Design/icon-1024.png
+cp Design/lodge-cabin-night/icon_*x*.png Lodge/Assets.xcassets/AppIcon.appiconset/
+cp Design/lodge-cabin-night/icon_1024.png Design/icon-1024.png
 ```
 
 `Contents.json` already points each slot at the file with the same name. Copy the same sizes into `docs/assets/app-icon/` when the public icon should change too.
